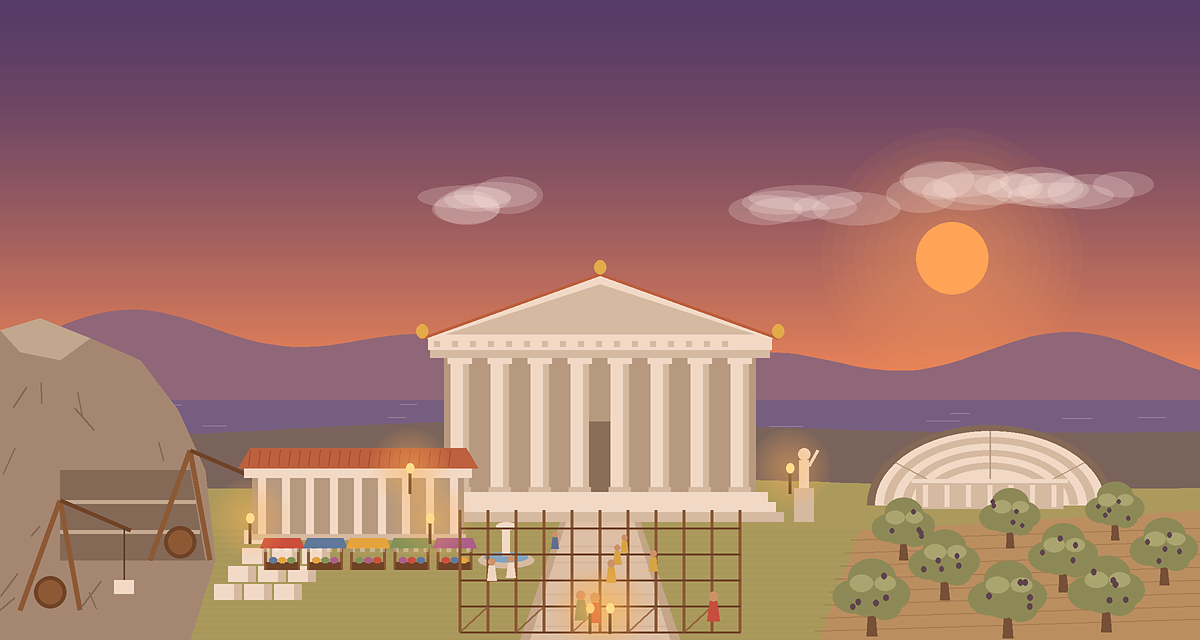
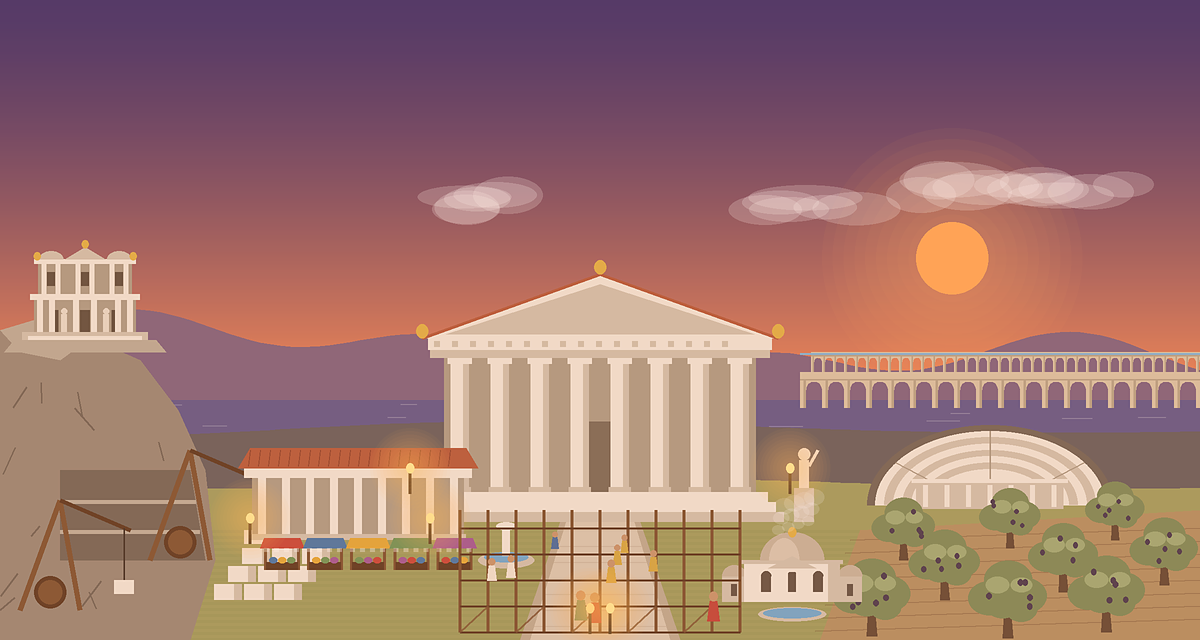
Üç yeni bina: Hamam, Kütüphane, Su Kemeri + Tarih Sırası oyunu
- Hamam: canlılık puanına +10/+20/+30
- Kütüphane: bilgi oyunlarının ödülüne +%25/50/75; 1. seviye
  /oyun tarih-sırası oyununu açar (88 olay, turda 4 olay, en az 10 yıl ara)
- Su Kemeri: Mermer ve Zeytin üretimine +%5/10/15; Forum 2'de açılır
- Üçü de şehir resminde: kayalık üstünde Celsus'tan esinli kütüphane,
  koyda kemerli su yolu, buharı tüten kubbeli hamam
- Site görselleri ve metinleri güncellendi

Changed region(s): [[0.6475, 0.5312, 1.0, 0.6562], [0.5858, 0.7812, 0.74, 0.9688], [0.0308, 0.375, 0.1542, 0.5625]]

diff --git a/index.html b/index.html
@@ -36,7 +36,7 @@
         <a class="btn btn-ghost support" href="#" data-i18n="support">Destek Sunucusu</a>
       </div>
       <figure>
-        <img class="shot" src="img/hero.png" width="1200" height="640" data-i18n-alt="hero_alt" alt="Tapınağı, agorası, amfitiyatrosu ve zafer takı olan, bayraklarla süslenmiş bir Civita şehri">
+        <img class="shot" src="img/hero.png" width="1200" height="640" data-i18n-alt="hero_alt" alt="Tapınağı, agorası, amfitiyatrosu, hamamı, kayalık üstündeki kütüphanesi, su kemeri ve zafer takı olan, bayraklarla süslenmiş bir Civita şehri">
         <figcaption class="caption" data-i18n="hero_caption">Gerçek bir Civita şehri: her bina, sunucu üyelerinin emeğiyle yükseldi.</figcaption>
       </figure>
     </div>
@@ -60,7 +60,7 @@
       <p class="section-lead" data-i18n="features_lead">Bir şehir oyunu, eğlenceli mini oyunlar ve ihtiyacınız olan sunucu araçları, tek botta.</p>
       <div class="features">
         <div class="feature"><div class="icon">🖼</div><h3 data-i18n="f_picture_title">Çizilen şehir</h3><p data-i18n="f_picture_text">/şehir yazın, şehrinizin resmini görün. Gökyüzü saatine göre değişir: şafak, gündüz, gün batımı, yıldızlı gece.</p></div>
-        <div class="feature"><div class="icon">🎭</div><h3 data-i18n="f_games_title">Mini oyunlar</h3><p data-i18n="f_games_text">200'ü aşkın sorulu Bilgi Yarışması ve hızlı parmaklar için Refleks. Amfitiyatro kurulunca kazananlar şehre Sikke kazandırır.</p></div>
+        <div class="feature"><div class="icon">🎭</div><h3 data-i18n="f_games_title">Mini oyunlar</h3><p data-i18n="f_games_text">200'ü aşkın sorulu Bilgi Yarışması, hızlı parmaklar için Refleks ve Kütüphane'yle açılan Tarih Sırası. Amfitiyatro kurulunca kazananlar şehre Sikke kazandırır.</p></div>
         <div class="feature"><div class="icon">❤</div><h3 data-i18n="f_vitality_title">Canlılık</h3><p data-i18n="f_vitality_text">Her gün katkı veren kişi sayısı şehrin canlılığını belirler. Canlı şehirler daha hızlı üretir; sokakları kalabalıklaşır.</p></div>
         <div class="feature"><div class="icon">🏅</div><h3 data-i18n="f_titles_title">Unvanlar ve roller</h3><p data-i18n="f_titles_text">Misafirden Meclis Üyesi'ne altı unvan. İsterseniz her unvana bir Discord rolü bağlayın, Civita kendisi versin.</p></div>
         <div class="feature"><div class="icon">🌍</div><h3 data-i18n="f_world_title">Dünya sıralaması</h3><p data-i18n="f_world_text">İsteyen şehirler prestijleriyle yarışır. Katılım tamamen isteğe bağlıdır.</p></div>

diff --git a/app.js b/app.js
@@ -11,7 +11,7 @@ const EN = {
   tagline: "Turn your Discord server into a living ancient city that your members build together.",
   add: "Add to Discord",
   support: "Support Server",
-  hero_alt: "A Civita city with a temple, agora, amphitheatre and triumphal arch, decorated with bunting",
+  hero_alt: "A Civita city with a temple, agora, amphitheatre, bathhouse, a library on the cliff, an aqueduct and a triumphal arch, decorated with bunting",
   hero_caption: "A real Civita city: every building was raised by its members.",
   how_title: "How does it work?",
   how_lead: "Nobody has to do anything extra: the livelier your server, the faster your city grows.",
@@ -26,7 +26,7 @@ const EN = {
   f_picture_title: "A drawn city",
   f_picture_text: "Type /city to see a picture of your city. The sky follows the time of day: dawn, day, sunset, starry night.",
   f_games_title: "Mini games",
-  f_games_text: "Trivia with 200+ questions and Reflex for quick fingers. Once you build an Amphitheatre, winners earn Coins for the city.",
+  f_games_text: "Trivia with 200+ questions, Reflex for quick fingers and Timeline, unlocked by the Library. Once you build an Amphitheatre, winners earn Coins for the city.",
   f_vitality_title: "Vitality",
   f_vitality_text: "How many people contribute each day sets your city's vitality. Lively cities produce more, and their streets fill up.",
   f_titles_title: "Titles and roles",
@@ -79,6 +79,7 @@ const COMMANDS = {
       ["/festivaller", "Festival takvimi"],
       ["/oyun bilgi", "Bilgi Yarışması"],
       ["/oyun refleks", "Refleks oyunu"],
+      ["/oyun tarih-sırası", "Tarih Sırası (Kütüphane gerekir)"],
     ]],
     ["Yöneticiler için", [
       ["/ayarlar", "Dil, duyuru kanalı, inşa modu, unvan rolleri, hoş geldin, otomatik rol, mod-log, destek talepleri, doğrulama, dünya sıralaması, festivaller"],
@@ -103,6 +104,7 @@ const COMMANDS = {
       ["/festivals", "Festival calendar"],
       ["/game trivia", "Trivia"],
       ["/game reflex", "Reflex game"],
+      ["/game timeline", "Timeline (needs a Library)"],
     ]],
     ["For admins", [
       ["/settings", "Language, announcements, build mode, title roles, welcome, auto role, mod log, support tickets, verification, world ranking, festivals"],
